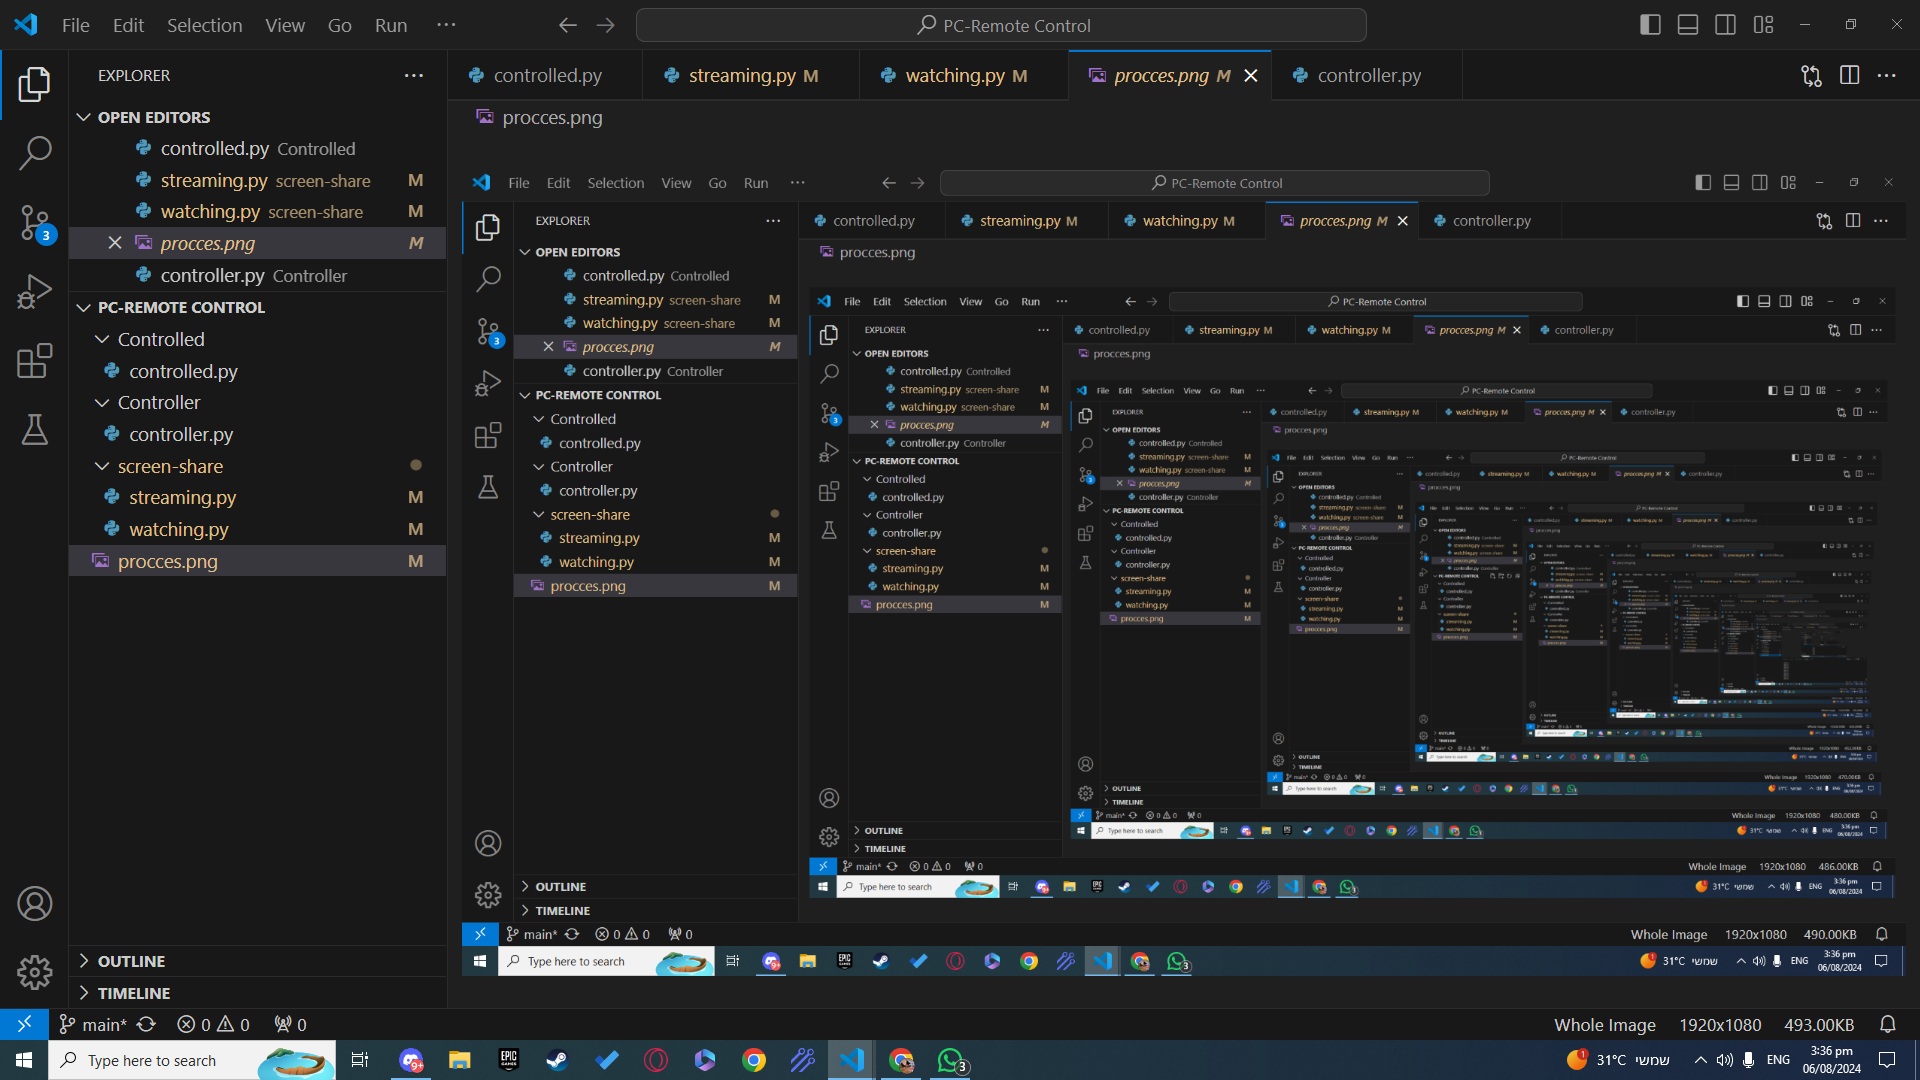
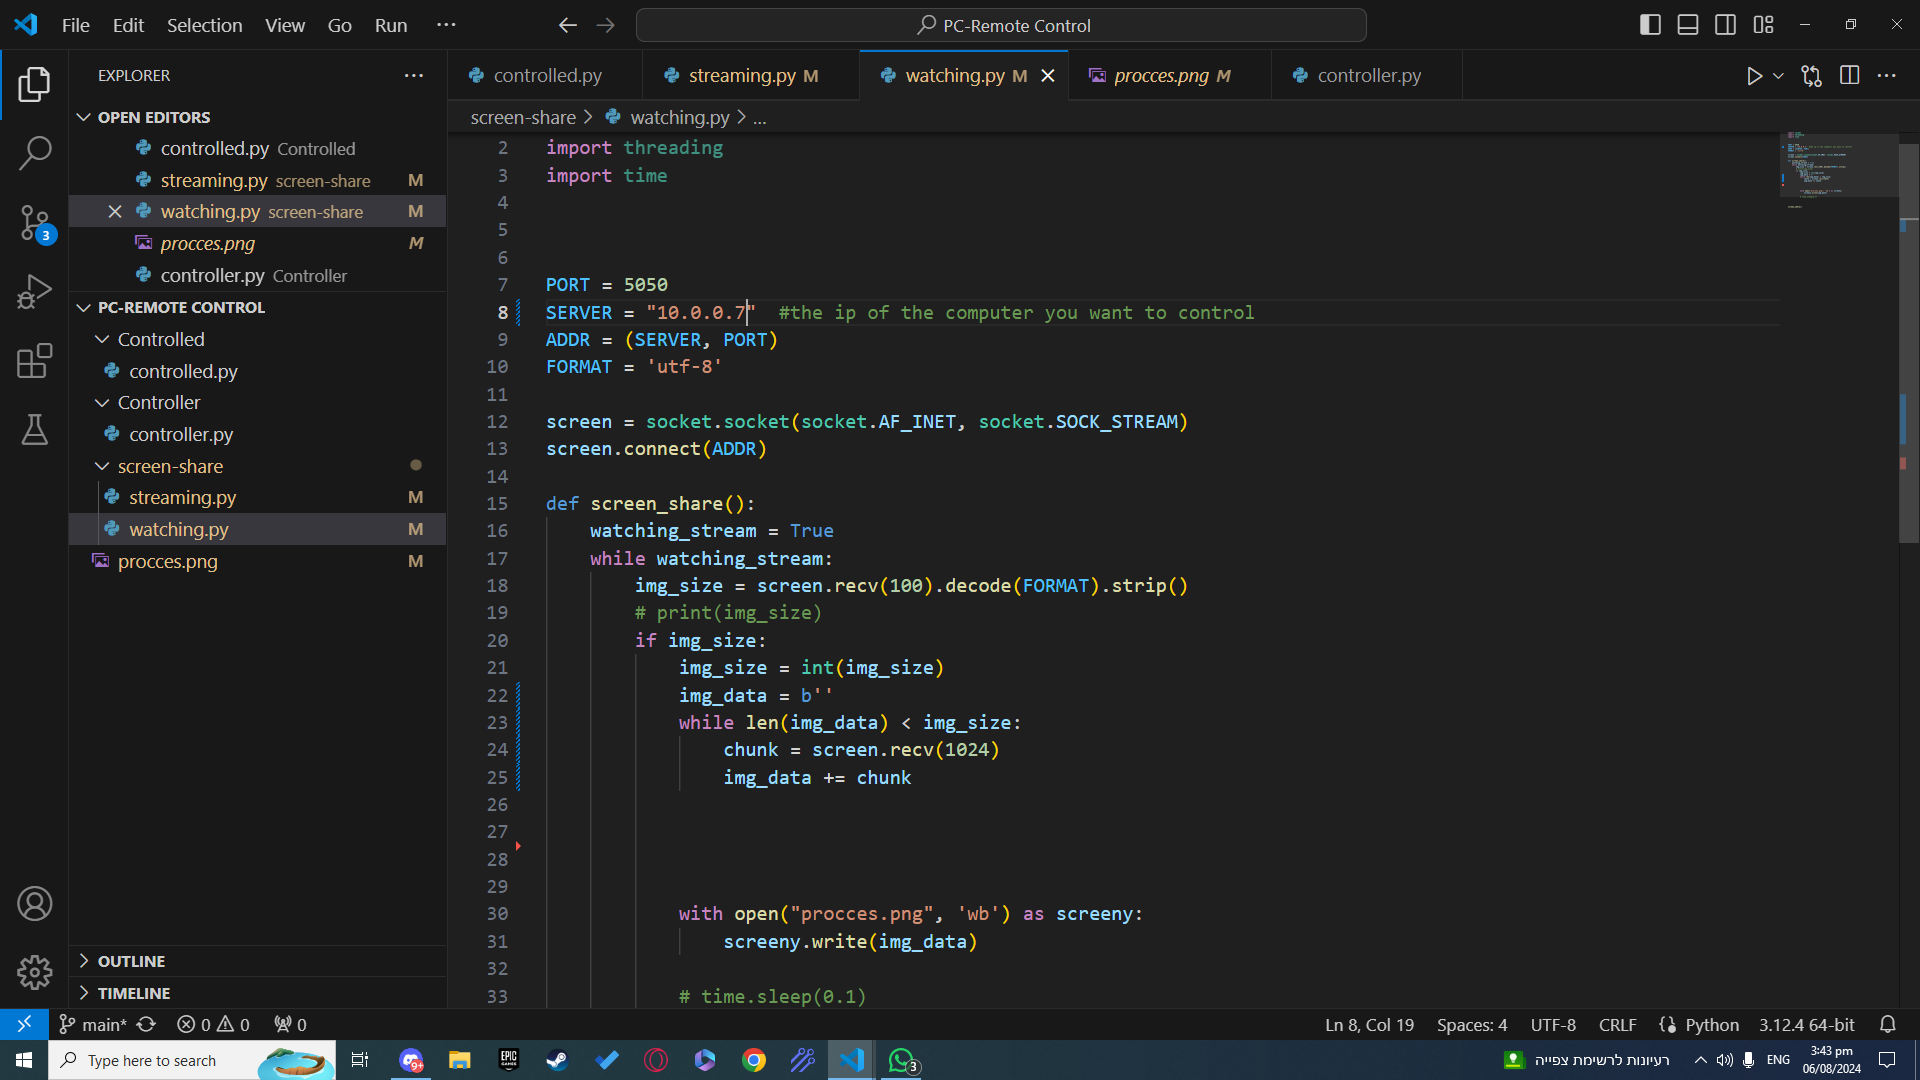
d

diff --git a/screen-share/watching.py b/screen-share/watching.py
@@ -5,7 +5,7 @@ import time
 
 
 PORT = 5050
-SERVER = "10.0.0.21"  #the ip of the computer you want to control
+SERVER = "10.0.0.7"  #the ip of the computer you want to control
 ADDR = (SERVER, PORT)
 FORMAT = 'utf-8'
 
@@ -19,14 +19,12 @@ def screen_share():
         # print(img_size)
         if img_size:
             img_size = int(img_size)
-            img_data = screen.recv(img_size)
-            # img_data = b''
-            # while len(img_data) < img_size:
-            #     chunk = screen.recv(1024)
-            #     img_data += chunk
+            img_data = b''
+            while len(img_data) < img_size:
+                chunk = screen.recv(1024)
+                img_data += chunk
             
 
-            ending_msg = screen.recv(100).decode(FORMAT).strip()
             
 
             with open("procces.png", 'wb') as screeny:

diff --git a/screen-share/streaming.py b/screen-share/streaming.py
@@ -44,9 +44,9 @@ def screen_share(conn, addr):
         #     conn.send(chunk)
         #     total_sent += 1024
 
-        ending_msg = "!SENT_ALL".encode(FORMAT)
-        ending_msg += b' ' * (100 - len(ending_msg))
-        conn.send(ending_msg)
+        # ending_msg = "!SENT_ALL".encode(FORMAT)
+        # ending_msg += b' ' * (100 - len(ending_msg))
+        # conn.send(ending_msg)
         # time.sleep()
 
 
